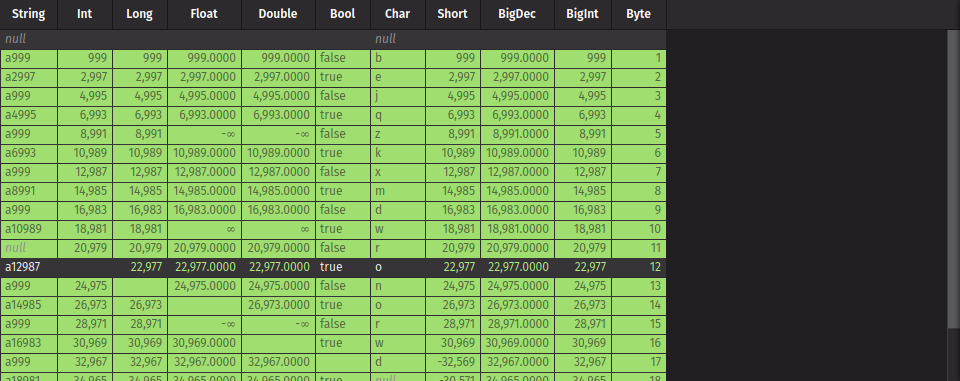
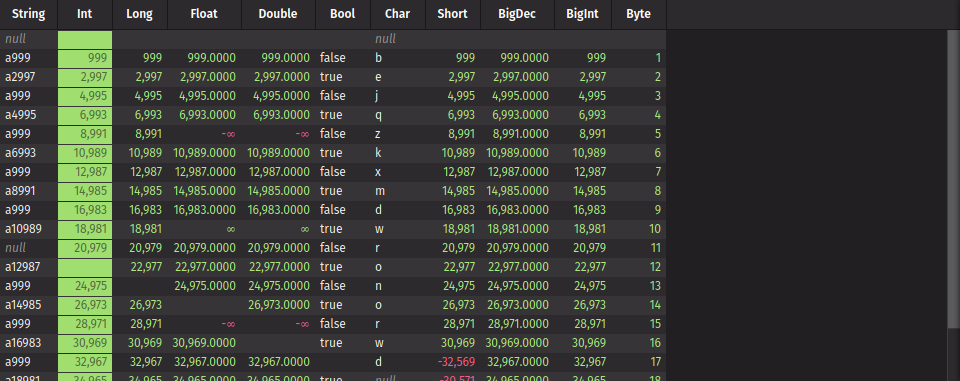
add more tests

diff --git a/tests/table-operations.spec.ts b/tests/table-operations.spec.ts
@@ -203,6 +203,81 @@ test('conditional format', async ({ page }) => {
     await expect(page.locator('.iris-grid-column')).toHaveScreenshot();
   });
 
+  await test.step('Cross-column comparison', async () => {
+    const formattingRule = page.locator('.formatting-item');
+    const conditionPicker = page.locator('data-testid=condition-select');
+    const highlightCell = page.getByRole('button', { name: 'Conditional' });
+    const doneButton = page.getByRole('button', { name: 'Done' });
+
+    await formattingRule.click();
+    await highlightCell.click();
+
+    // Pick "is equal to" from the Cross-Column section of the condition picker.
+    // The same label appears in both Value (index 0) and Cross-Column (index 1).
+    await conditionPicker.click();
+    await page.getByRole('option', { name: 'is equal to' }).nth(1).click();
+
+    // Verify the RHV column picker is visible, confirming cross-column mode is active
+    await expect(
+      page.locator('.condition-editor').getByRole('combobox')
+    ).toBeVisible();
+
+    await doneButton.click();
+    await waitForLoadingDone(page);
+    await expect(page.locator('.iris-grid-column')).toHaveScreenshot();
+  });
+
+  await test.step('Multiple formatted columns', async () => {
+    const formattingRule = page.locator('.formatting-item');
+    const highlightCell = page.getByRole('button', { name: 'Conditional' });
+    const doneButton = page.getByRole('button', { name: 'Done' });
+
+    await formattingRule.click();
+    await highlightCell.click();
+
+    // Open the "Apply to Columns" MultiSelect and add Double to the selection
+    await page.locator('.dh-multi-select-trigger').click();
+    await expect(
+      page.getByRole('option', { name: 'Double', exact: true })
+    ).toBeVisible();
+    await page.getByRole('option', { name: 'Double', exact: true }).click();
+    await page.keyboard.press('Escape');
+
+    await doneButton.click();
+    await waitForLoadingDone(page);
+    await expect(page.locator('.iris-grid-column')).toHaveScreenshot();
+  });
+
+  await test.step('Cross-column comparison with multiple formatted columns', async () => {
+    // At this point the rule has both: cross-column comparison AND multiple formatted columns.
+    // Open and verify the combined state loads correctly, then re-save.
+    const formattingRule = page.locator('.formatting-item');
+    const conditionPicker = page.locator('data-testid=condition-select');
+    const highlightCell = page.getByRole('button', { name: 'Conditional' });
+    const doneButton = page.getByRole('button', { name: 'Done' });
+
+    await formattingRule.click();
+    await highlightCell.click();
+
+    // Verify the RHV column combobox is visible (cross-column mode loaded)
+    await expect(conditionPicker).toBeVisible();
+    await expect(
+      page.locator('.condition-editor').getByRole('combobox')
+    ).toBeVisible();
+
+    // Verify multiple column tags are shown in the Apply to Columns MultiSelect
+    await expect(
+      page.locator('.dh-multi-select-trigger').getByText('Int')
+    ).toBeVisible();
+    await expect(
+      page.locator('.dh-multi-select-trigger').getByText('Double')
+    ).toBeVisible();
+
+    await doneButton.click();
+    await waitForLoadingDone(page);
+    await expect(page.locator('.iris-grid-column')).toHaveScreenshot();
+  });
+
   await test.step('Cancel', async () => {
     const formattingRule = page.locator('.formatting-item');
     const conditionPicker = page.locator('data-testid=condition-select');